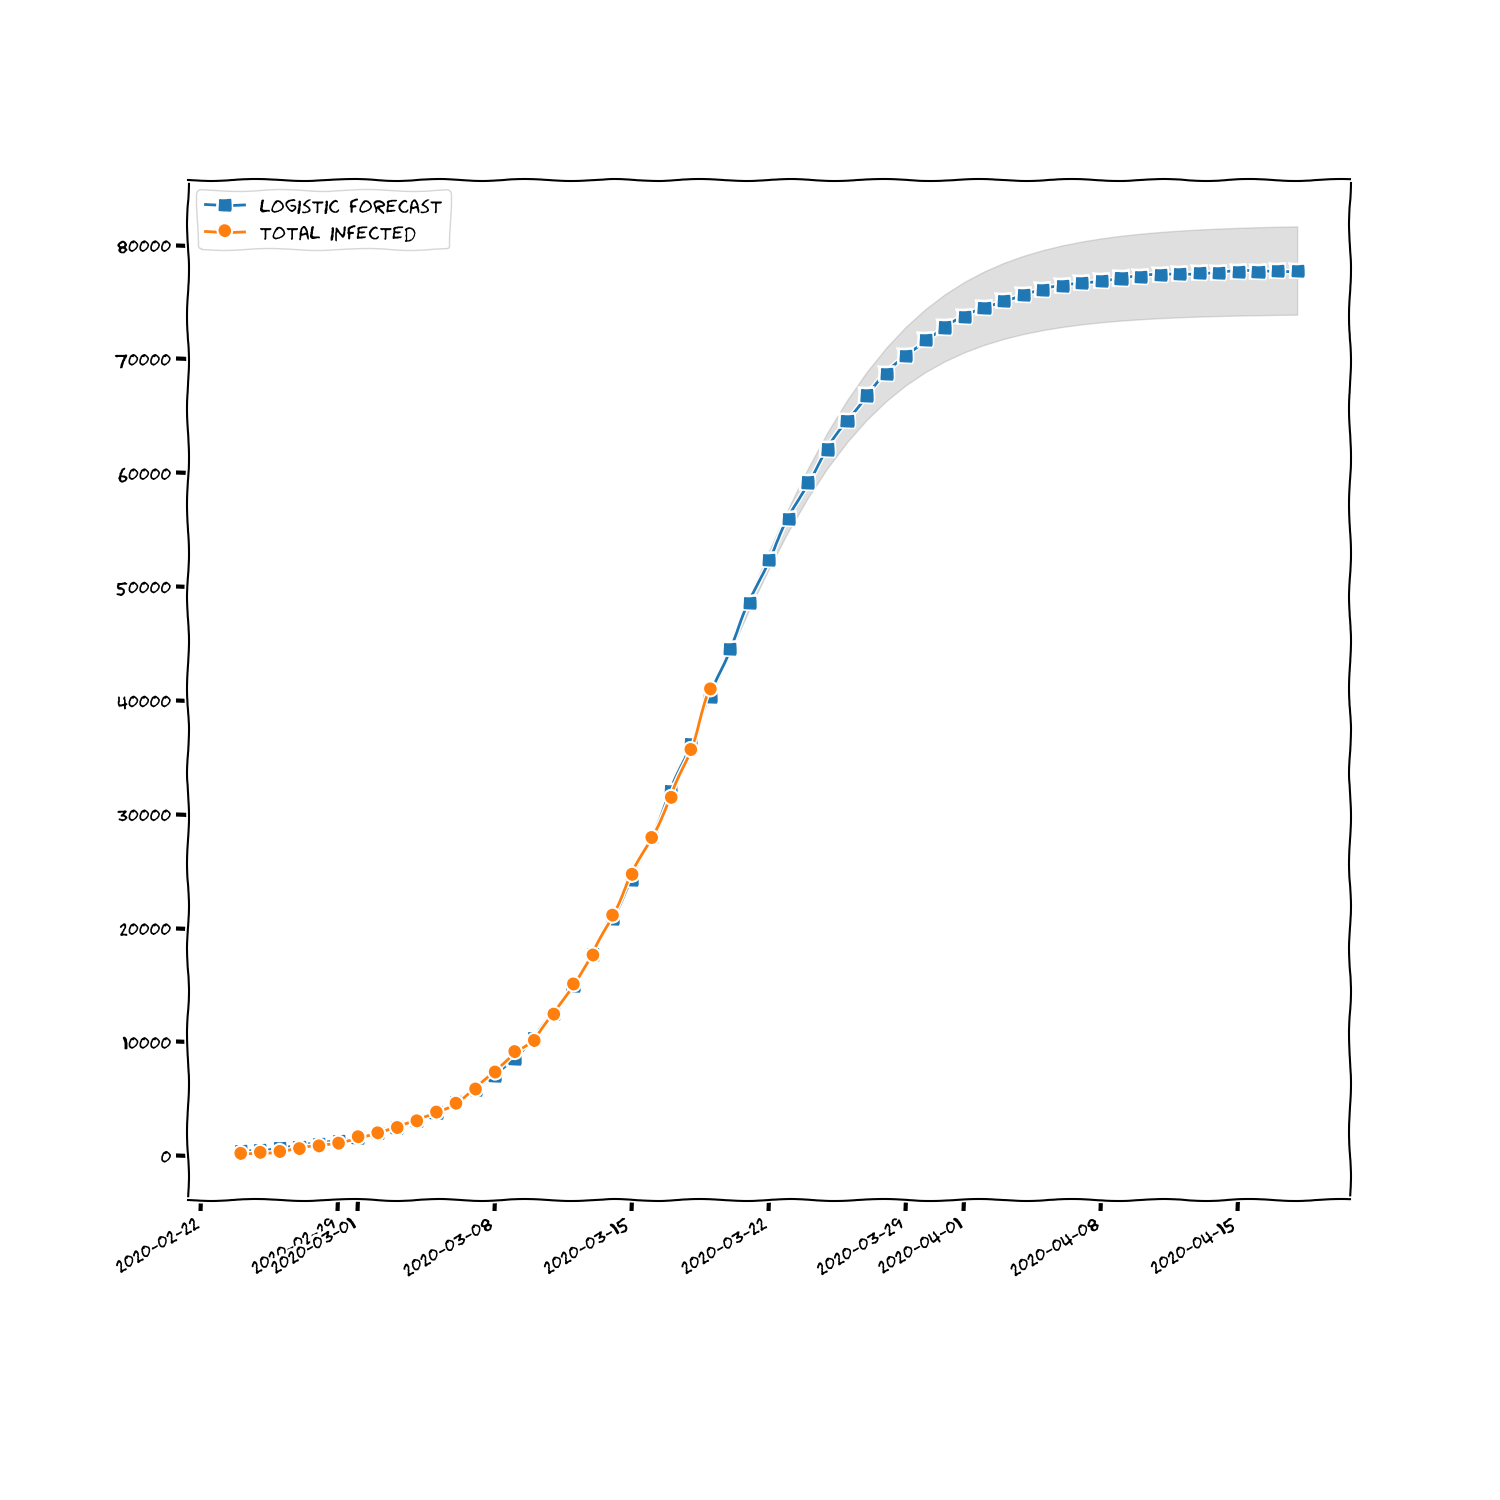
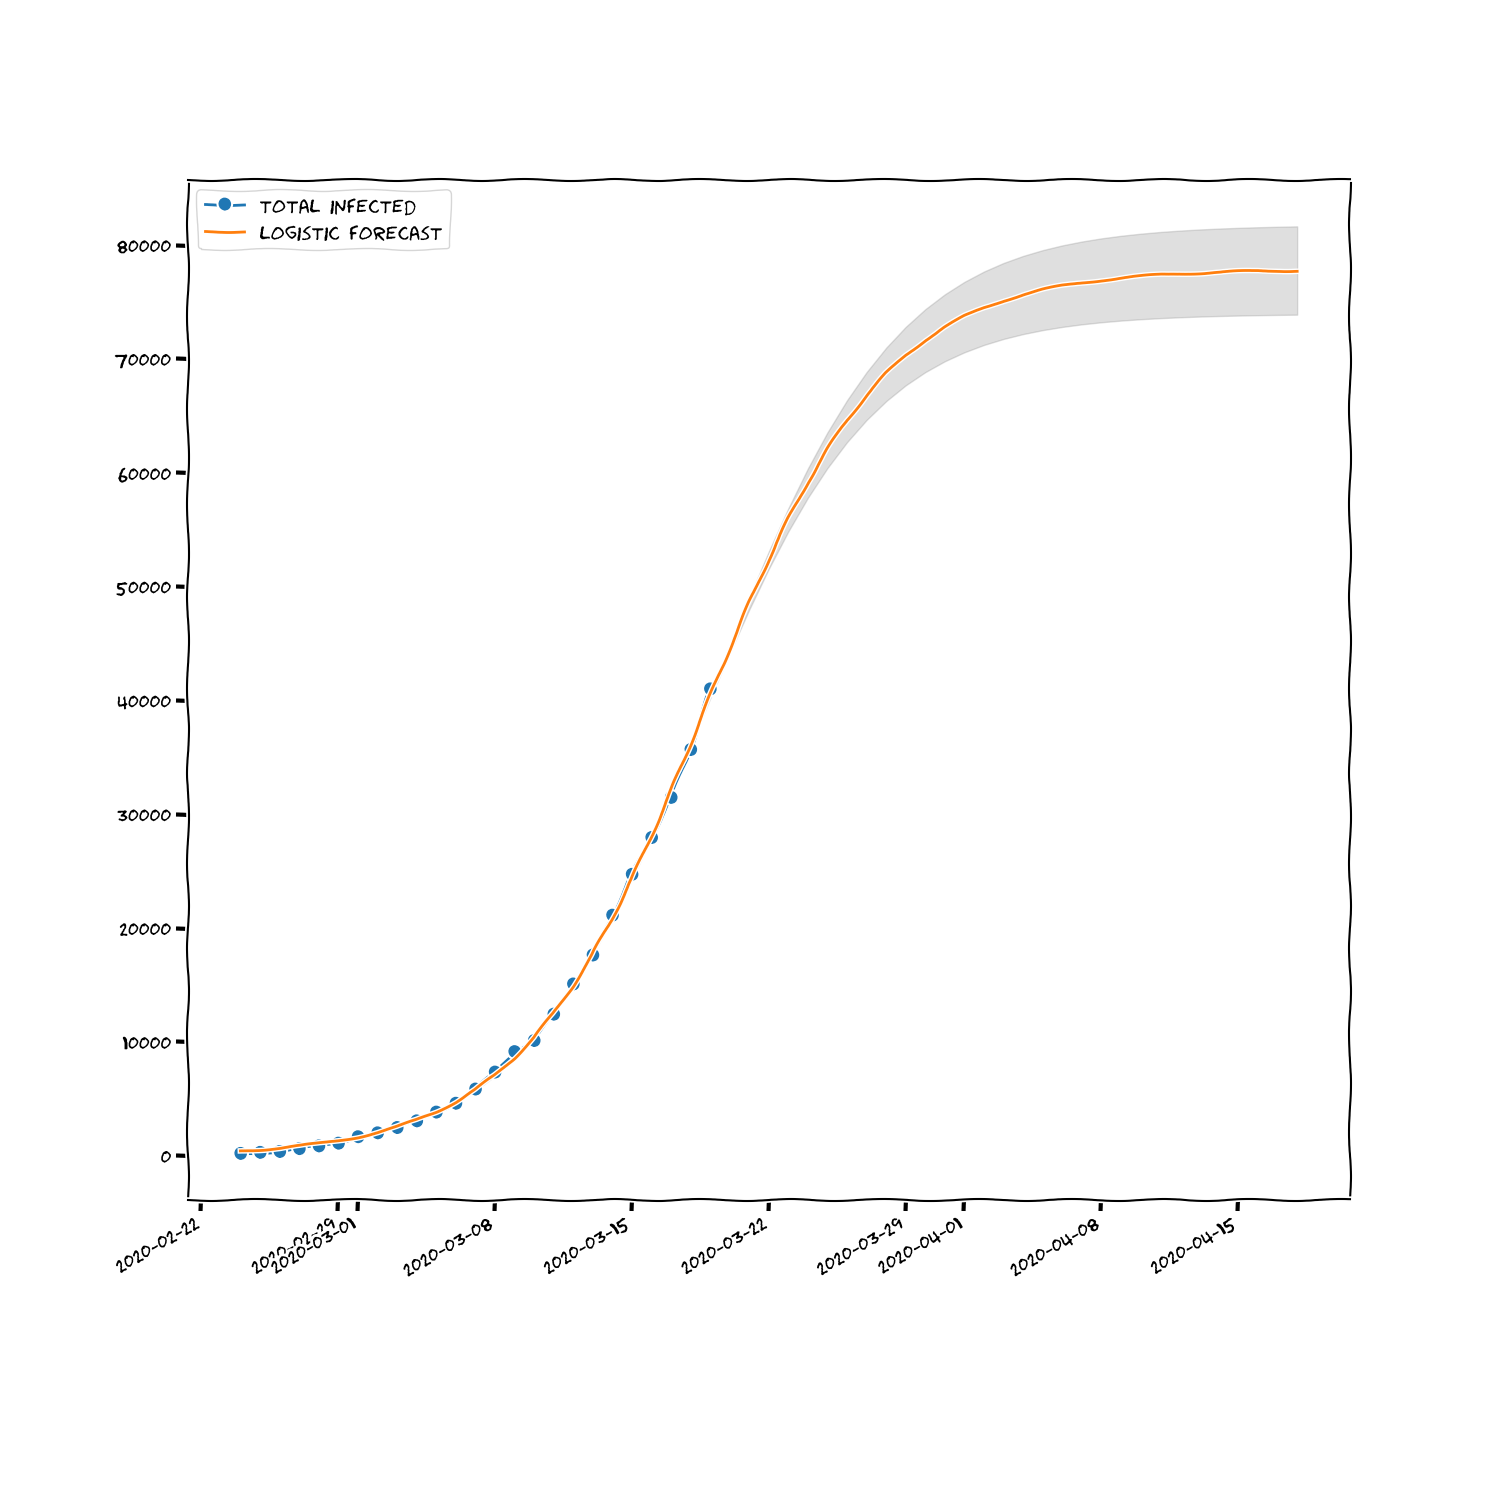
:art: adjust logistic.png style

diff --git a/main.py b/main.py
@@ -201,8 +201,8 @@ if __name__ == '__main__':
     with plt.xkcd():
         fig, ax = plt.subplots(nrows=1, ncols=1, figsize=(15, 15))
         fig.autofmt_xdate()
-        ax.plot(dates_dyn_forecast, logistic_forecast, 's-', label='logistic forecast')
         ax.plot(dates, infected, 'o-', label='total infected')
+        ax.plot(dates_dyn_forecast, logistic_forecast, label='logistic forecast')
         ax.legend(loc='upper left')
         ax.fill_between(dates_dyn_forecast, fit_up_p, fit_dw_p, alpha=.25, color='gray')
         plt.savefig('report/logistic.png')
